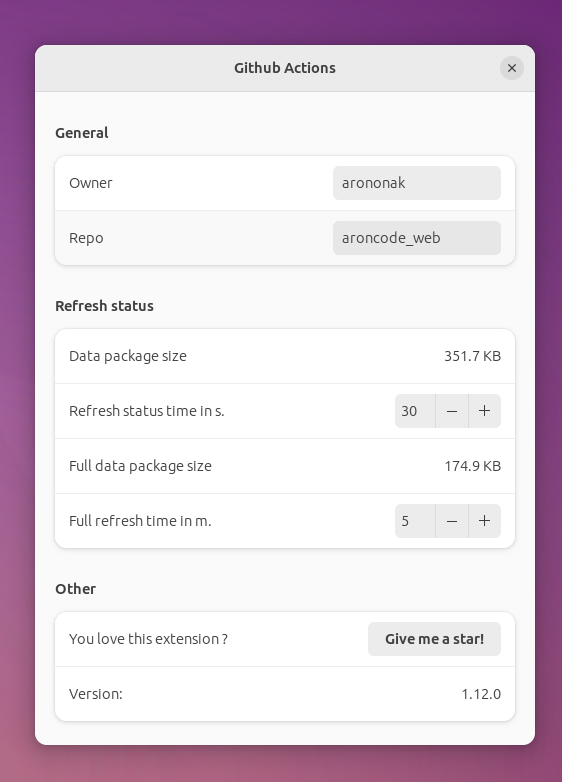
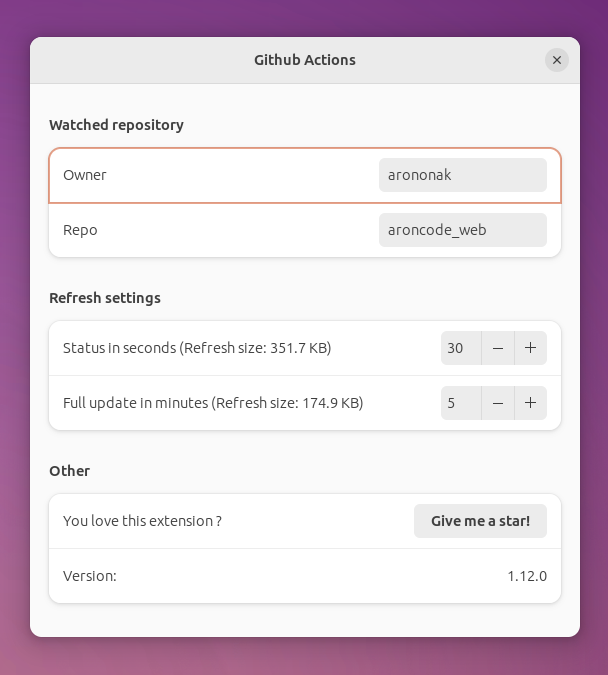
New settings layout

diff --git a/github-actions@arononak.github.io/prefs.js b/github-actions@arononak.github.io/prefs.js
@@ -10,7 +10,7 @@ const version = Me.imports.version; // version.js
 function init() { }
 
 function fillPreferencesWindow(window) {
-    window.set_default_size(500, 700);
+    window.set_default_size(550, 600);
     const settings = ExtensionUtils.getSettings('org.gnome.shell.extensions.github-actions');
 
     const ownerEntry = new Gtk.Entry({ buffer: new Gtk.EntryBuffer({ text: settings.get_string('owner') }), hexpand: true, halign: Gtk.Align.CENTER, valign: Gtk.Align.CENTER });
@@ -49,13 +49,10 @@ function fillPreferencesWindow(window) {
         page_size: 0,
     });
     const refreshStatusRow = new Adw.ActionRow();
-    refreshStatusRow.add_prefix(new Gtk.Label({ label: 'Refresh status time in s.' }));
+    refreshStatusRow.add_prefix(new Gtk.Label({ label: 'Status in seconds (Refresh size: ' + utils.prefsPackageSize(settings) + ')' }));
     refreshStatusRow.add_suffix(refreshStatusSpinButton);
     refreshStatusRow.activatable_widget = refreshStatusSpinButton;
     settings.bind('refresh-time', refreshStatusSpinButton, 'value', Gio.SettingsBindFlags.DEFAULT);
-
-    const dataRow = new Adw.ActionRow({ title: 'Data package size ' });
-    dataRow.add_suffix(new Gtk.Label({ label: utils.prefsPackageSize(settings), halign: Gtk.Align.START, valign: Gtk.Align.CENTER }));
 
     const fullRefreshSpinButton = new Gtk.SpinButton({ climb_rate: 1, digits: 0 });
     fullRefreshSpinButton.wrap = true;
@@ -71,13 +68,10 @@ function fillPreferencesWindow(window) {
         page_size: 0,
     });
     const fullRefreshRow = new Adw.ActionRow();
-    fullRefreshRow.add_prefix(new Gtk.Label({ label: 'Full refresh time in m.' }));
+    fullRefreshRow.add_prefix(new Gtk.Label({ label: 'Full update in minutes (Refresh size: ' + utils.prefsColdPackageSize(settings) + ')' }));
     fullRefreshRow.add_suffix(fullRefreshSpinButton);
     fullRefreshRow.activatable_widget = fullRefreshSpinButton;
     settings.bind('full-refresh-time', fullRefreshSpinButton, 'value', Gio.SettingsBindFlags.DEFAULT);
-
-    const fullDataRow = new Adw.ActionRow({ title: 'Full data package size ' });
-    fullDataRow.add_suffix(new Gtk.Label({ label: utils.prefsColdPackageSize(settings), halign: Gtk.Align.START, valign: Gtk.Align.CENTER }));
 
     const versionRow = new Adw.ActionRow();
     versionRow.add_prefix(new Gtk.Label({ label: 'Version: ', halign: Gtk.Align.START, valign: Gtk.Align.CENTER }));
@@ -90,14 +84,12 @@ function fillPreferencesWindow(window) {
     const starRow = new Adw.ActionRow({ title: 'You love this extension ?' });
     starRow.add_suffix(githubButton);
 
-    const generalGroup = new Adw.PreferencesGroup({ title: 'General' });
+    const generalGroup = new Adw.PreferencesGroup({ title: 'Watched repository' });
     generalGroup.add(ownerRow);
     generalGroup.add(repoRow);
 
-    const refreshStatusGroup = new Adw.PreferencesGroup({ title: 'Refresh status' });
-    refreshStatusGroup.add(dataRow);
+    const refreshStatusGroup = new Adw.PreferencesGroup({ title: 'Refresh settings' });
     refreshStatusGroup.add(refreshStatusRow);
-    refreshStatusGroup.add(fullDataRow);
     refreshStatusGroup.add(fullRefreshRow);
 
     const otherGroup = new Adw.PreferencesGroup({ title: 'Other' });
